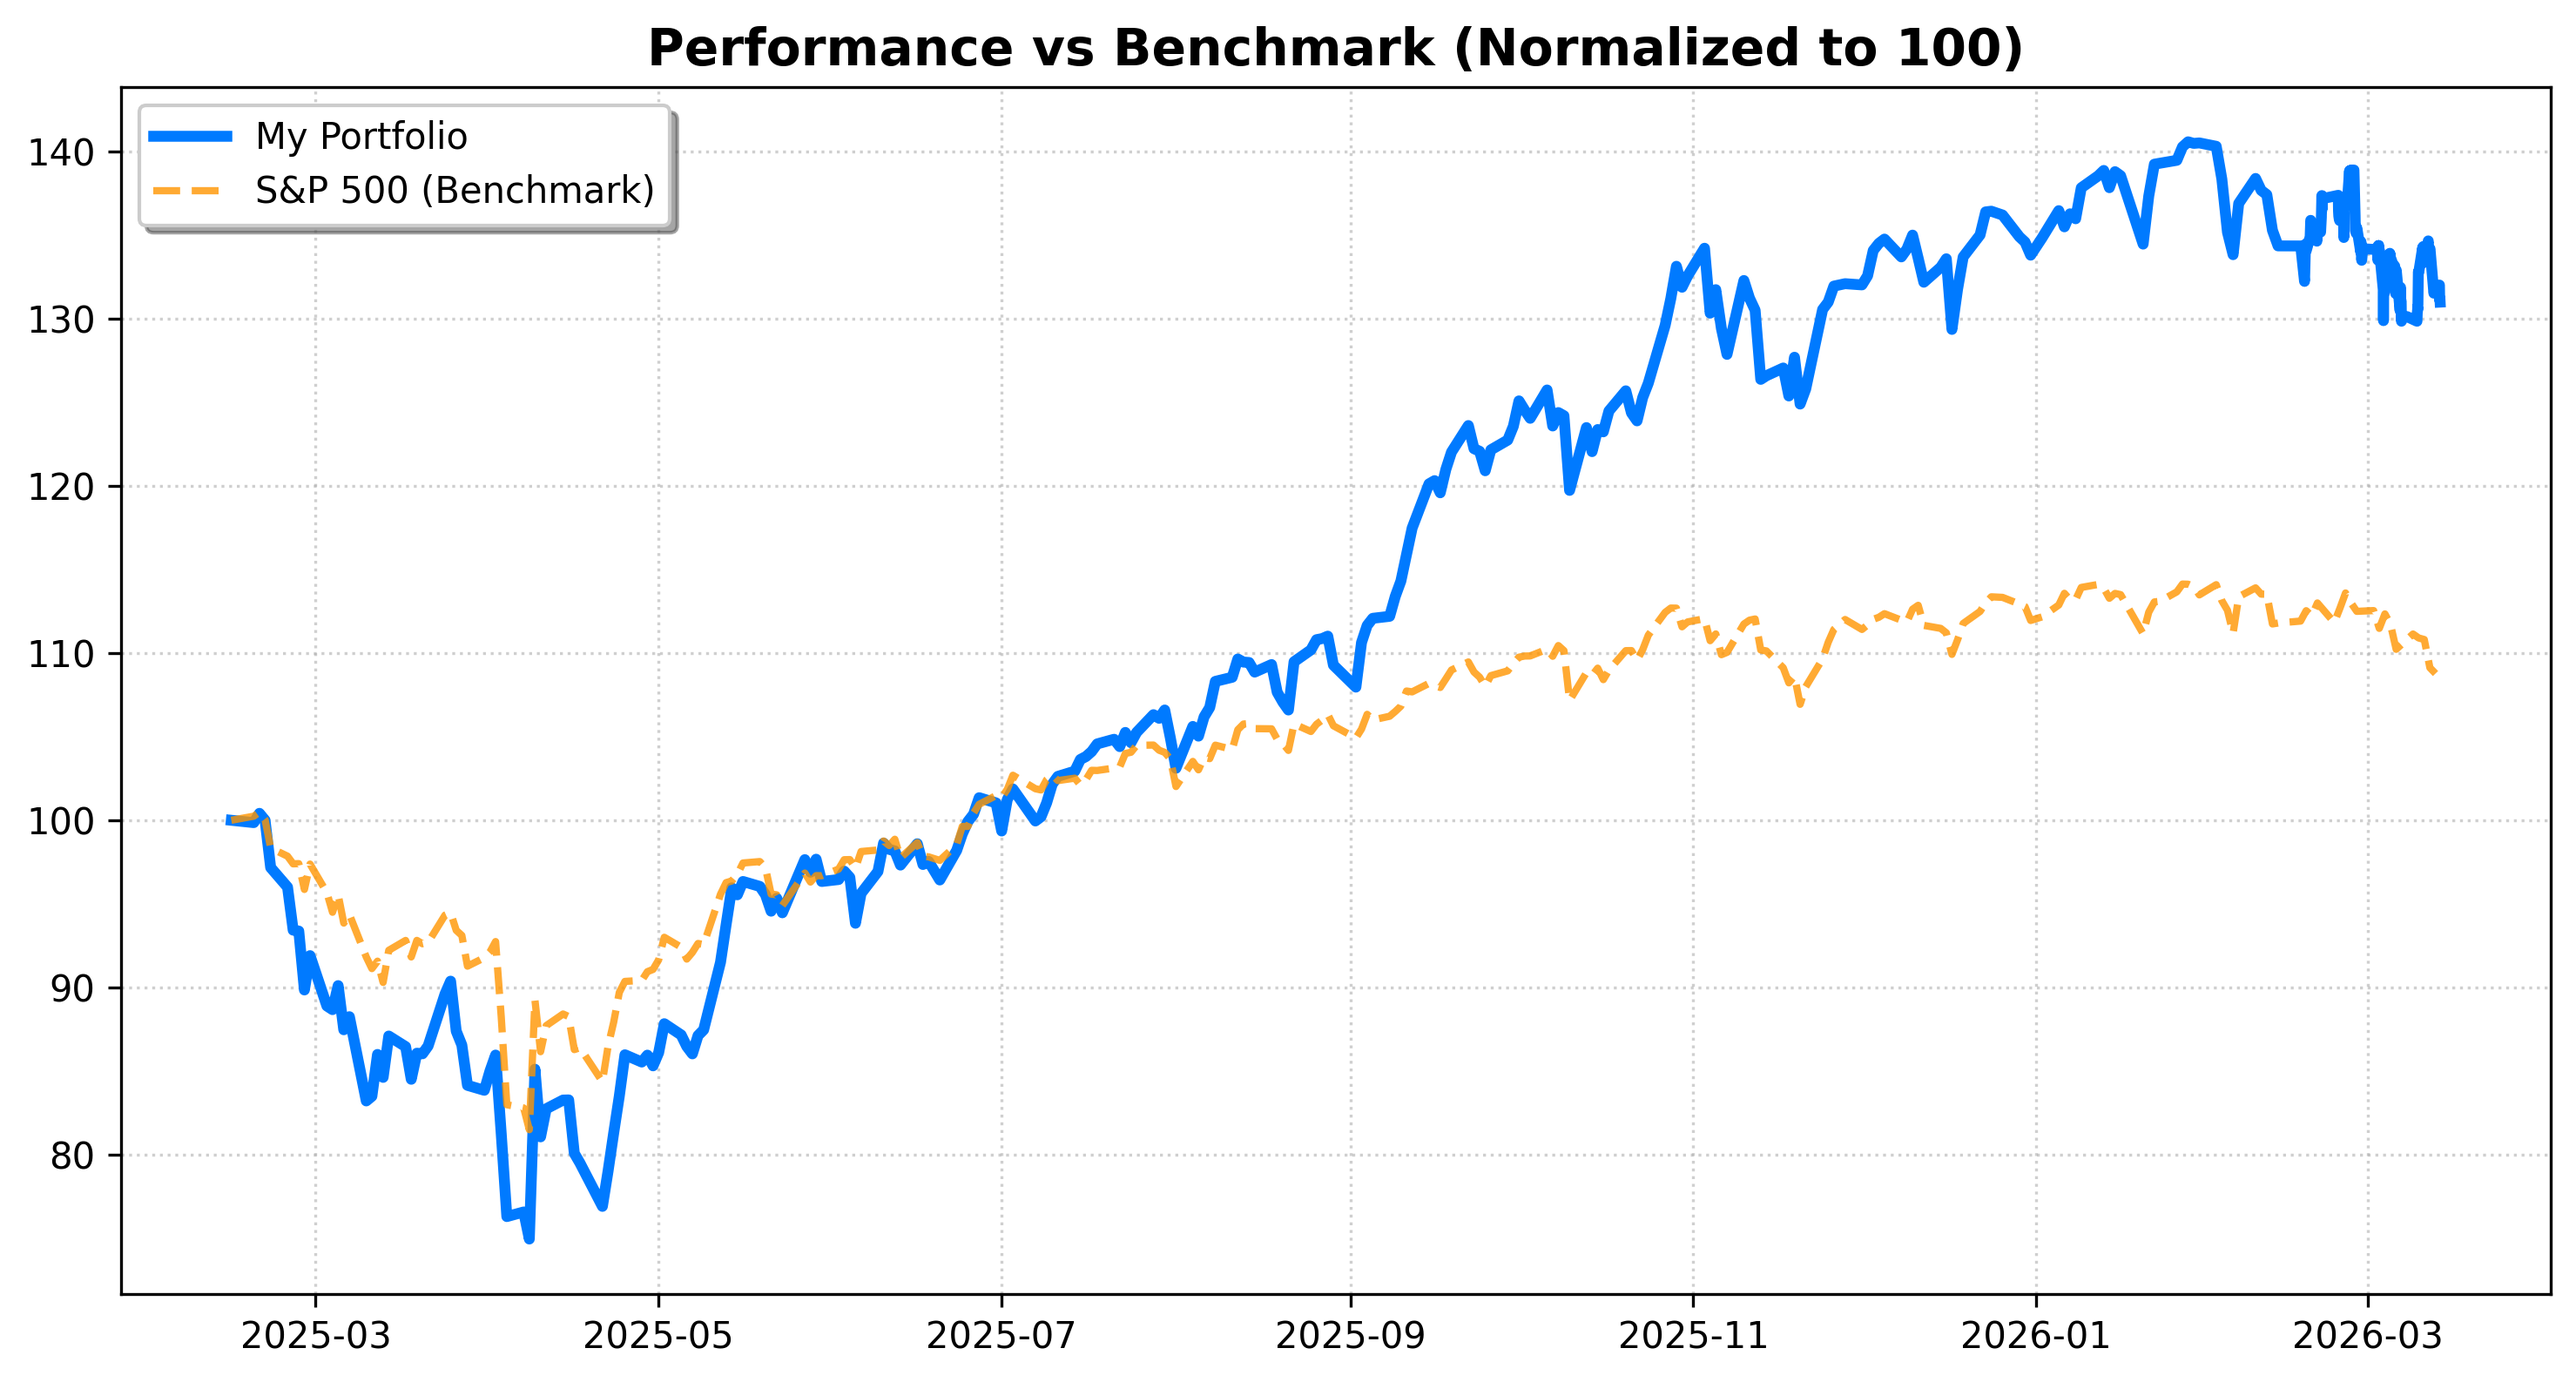
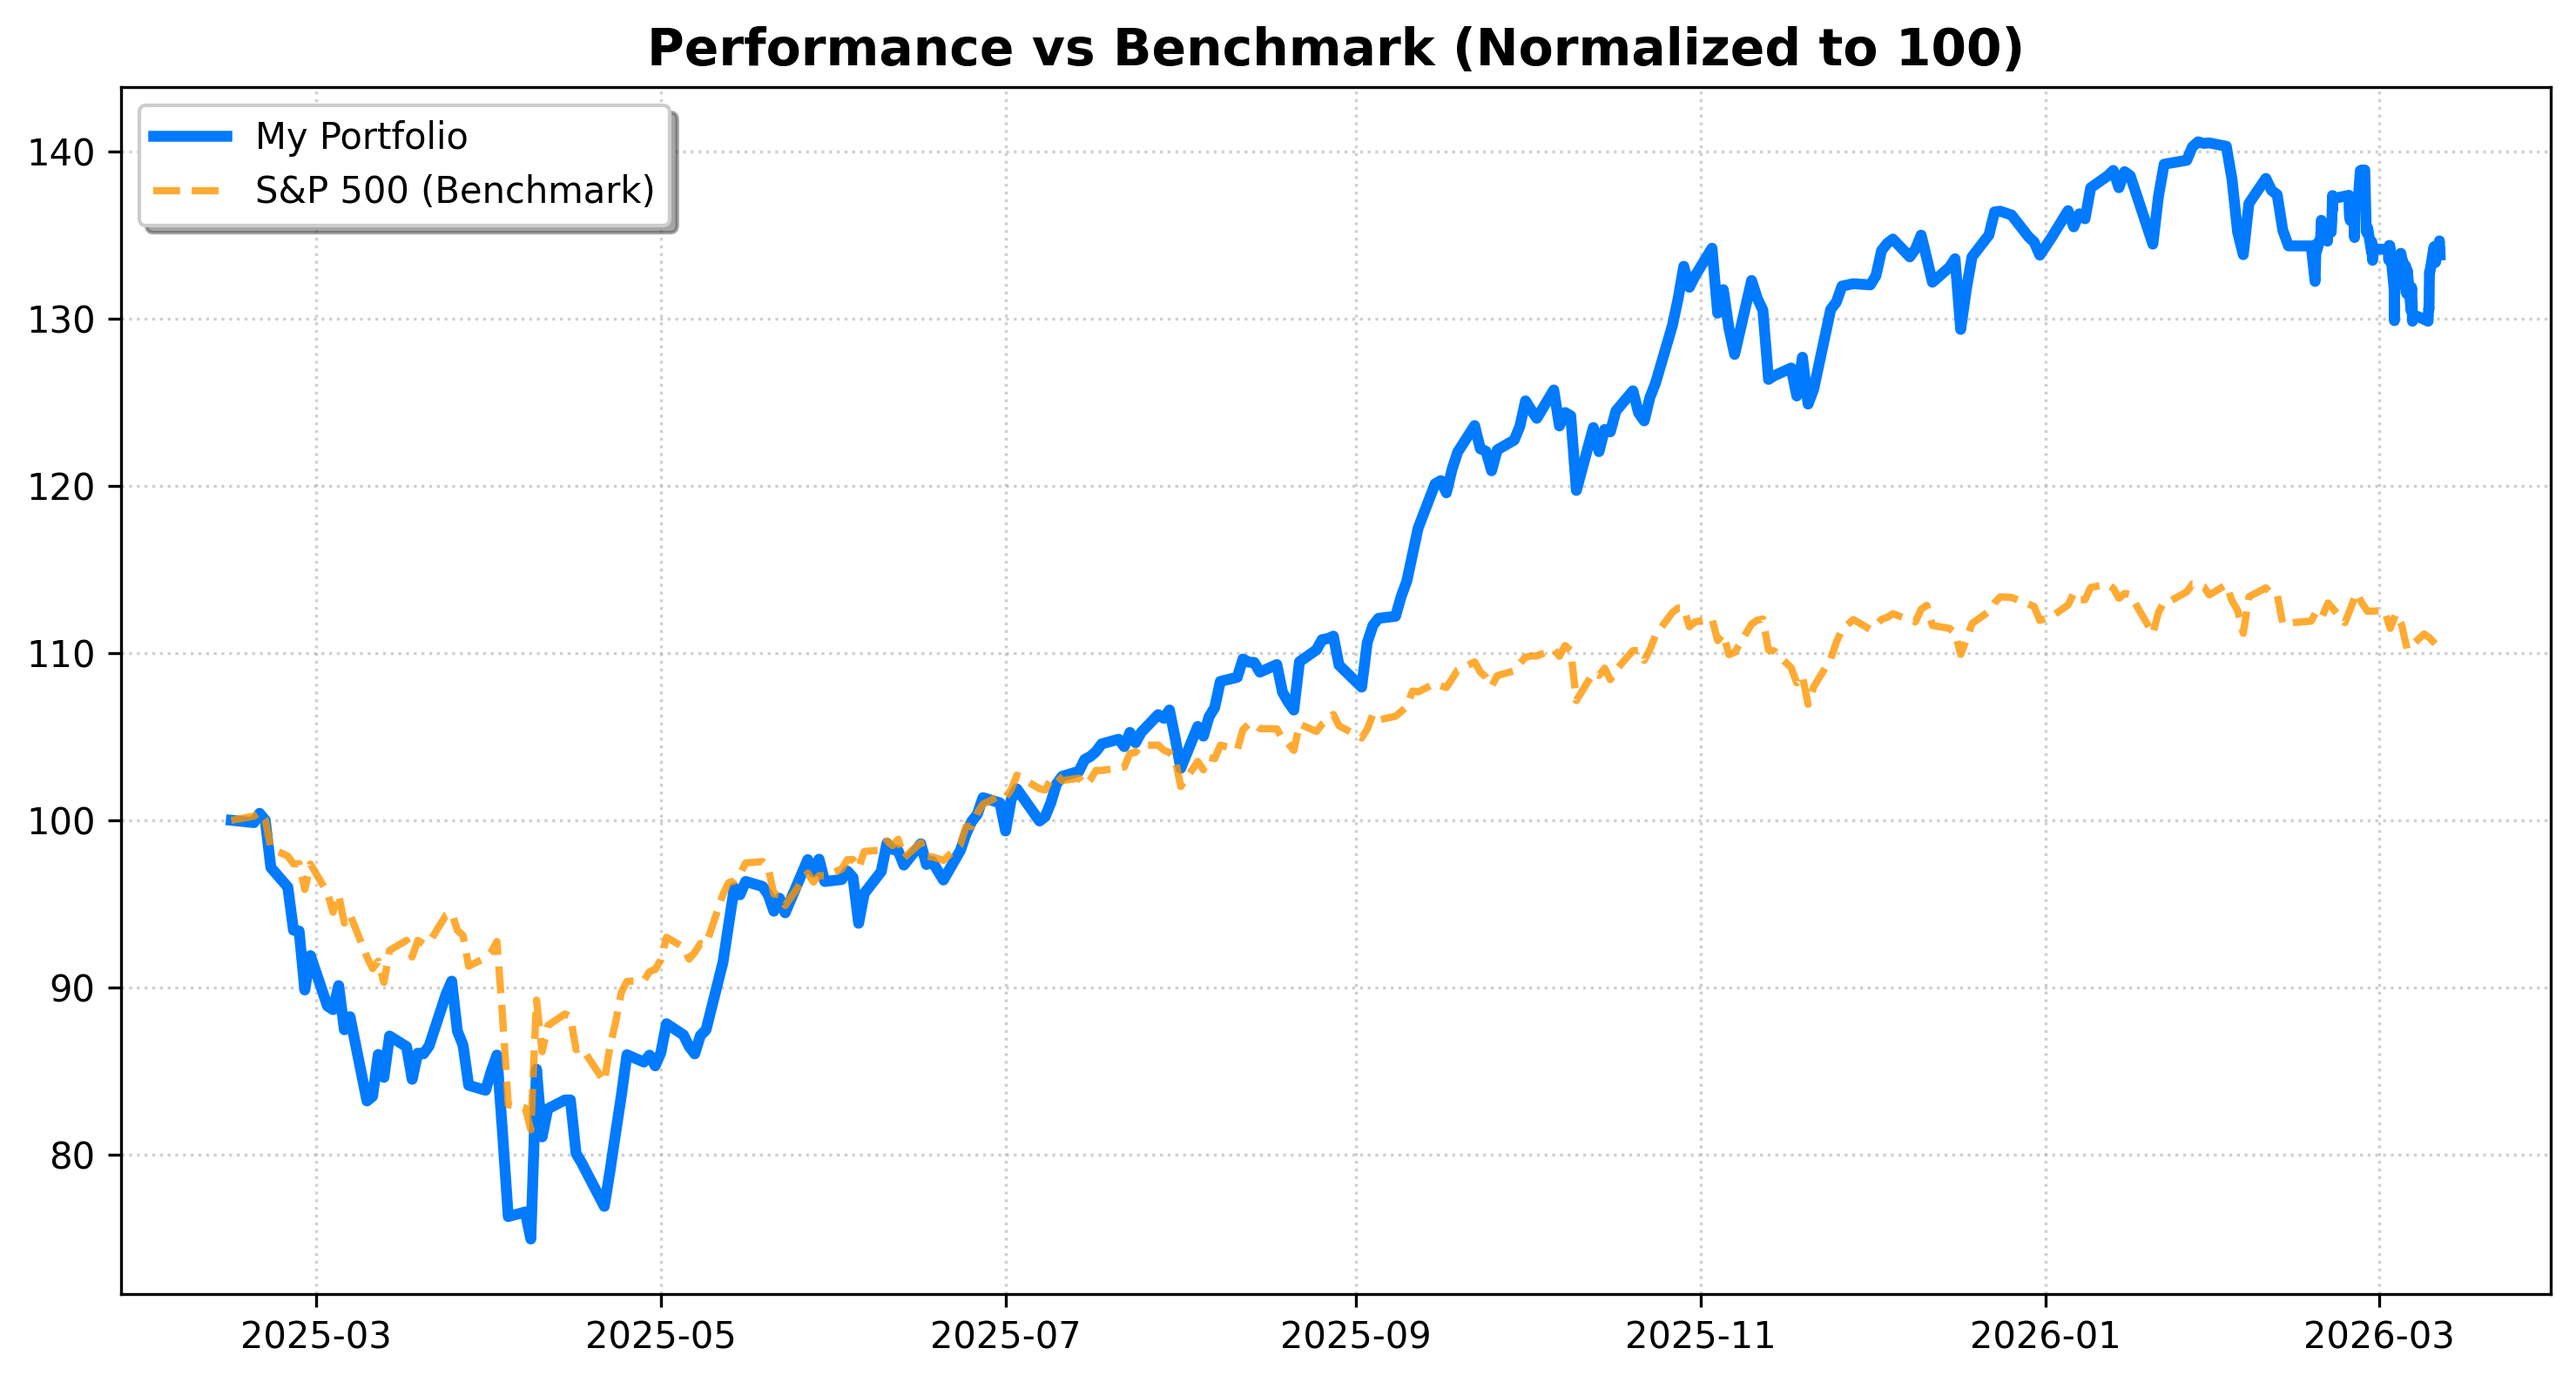
System Run: Analytics & Archive Update [skip ci]

diff --git a/README.md b/README.md
@@ -1,23 +1,23 @@
 # 📊 Portfolio Dashboard | מעקב תיק השקעות
-**Last Update:** 11/03/2026 19:00 | **USD/ILS:** ₪3.104
+**Last Update:** 11/03/2026 19:57 | **USD/ILS:** ₪3.110
 
 ## 💰 Portfolio Summary | סיכום התיק
 | Metric | Value | נתון |
 | :--- | :--- | :--- |
-| **Current Value** | `₪165,892` | **שווי נוכחי** |
-| **Total Invested** | `₪130,375` | **סך השקעה** |
-| **Total Profit/Loss** | `+27.24%` (₪35,517) | **רווח/הפסד כולל** |
-| **Daily Change** | `+0.25%` | **שינוי יומי** |
+| **Current Value** | `₪165,692` | **שווי נוכחי** |
+| **Total Invested** | `₪130,610` | **סך השקעה** |
+| **Total Profit/Loss** | `+26.86%` (₪35,082) | **רווח/הפסד כולל** |
+| **Daily Change** | `-0.37%` | **שינוי יומי** |
 
 ## 📜 Holdings | פירוט החזקות
 | Ticker | Shares | Avg. Cost | Current Price | P&L % | P&L ILS |
 | :--- | :--- | :--- | :--- | :--- | :--- |
-| GOOGL | 45 | $181.15 | $309.42 | 🟢 +70.81% | ₪17,918 |
-| ASML | 4 | $934.51 | $1,388.06 | 🟢 +48.53% | ₪5,632 |
-| XOM | 2 | $126.08 | $151.32 | 🟢 +20.02% | ₪157 |
-| NVDA | 57 | $148.62 | $185.75 | 🟢 +24.98% | ₪6,570 |
-| TSLA | 20 | $436.45 | $407.33 | 🔴 -6.67% | ₪-1,808 |
-| VOO | 24 | $527.38 | $622.00 | 🟢 +17.94% | ₪7,049 |
+| GOOGL | 45 | $181.15 | $308.40 | 🟢 +70.25% | ₪17,807 |
+| ASML | 4 | $934.51 | $1,388.06 | 🟢 +48.53% | ₪5,642 |
+| XOM | 2 | $126.08 | $151.41 | 🟢 +20.09% | ₪158 |
+| NVDA | 57 | $148.62 | $185.01 | 🟢 +24.49% | ₪6,450 |
+| TSLA | 20 | $436.45 | $405.44 | 🔴 -7.11% | ₪-1,929 |
+| VOO | 24 | $527.38 | $620.55 | 🟢 +17.67% | ₪6,954 |
 
 ## 📈 Charts | גרפים
 ![Performance](./data_hub/portfolio_performance.png)
